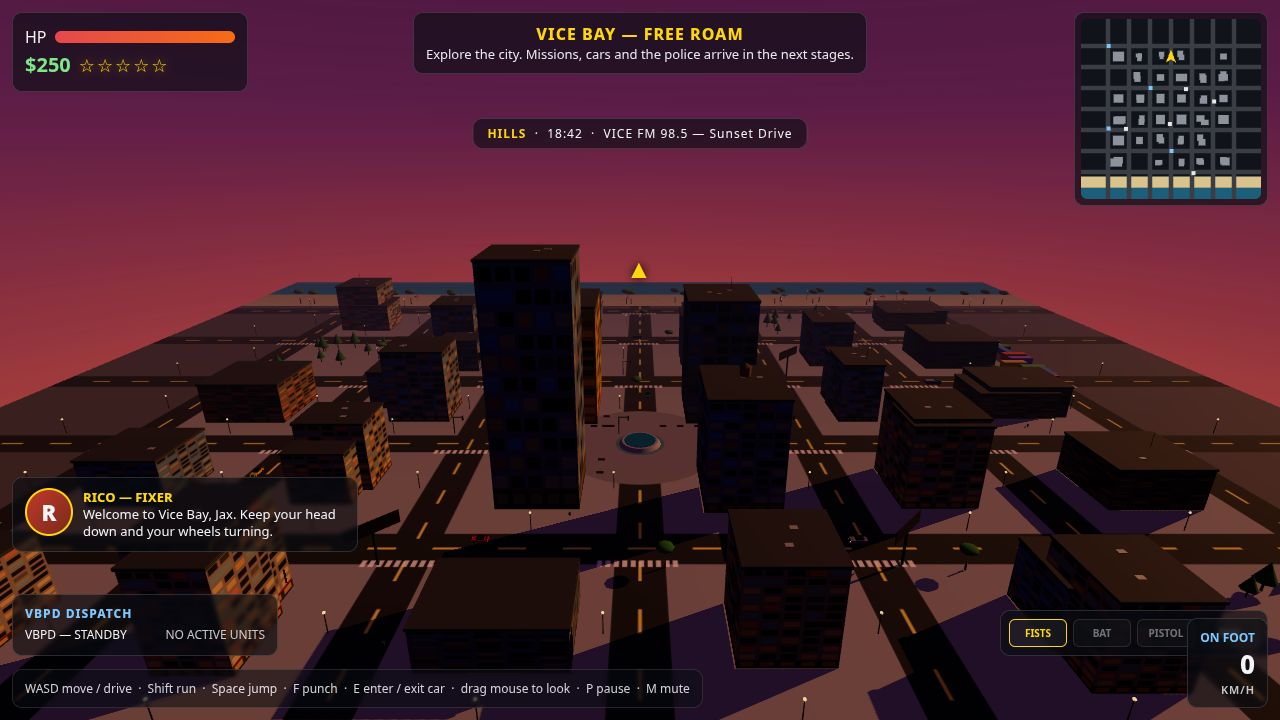
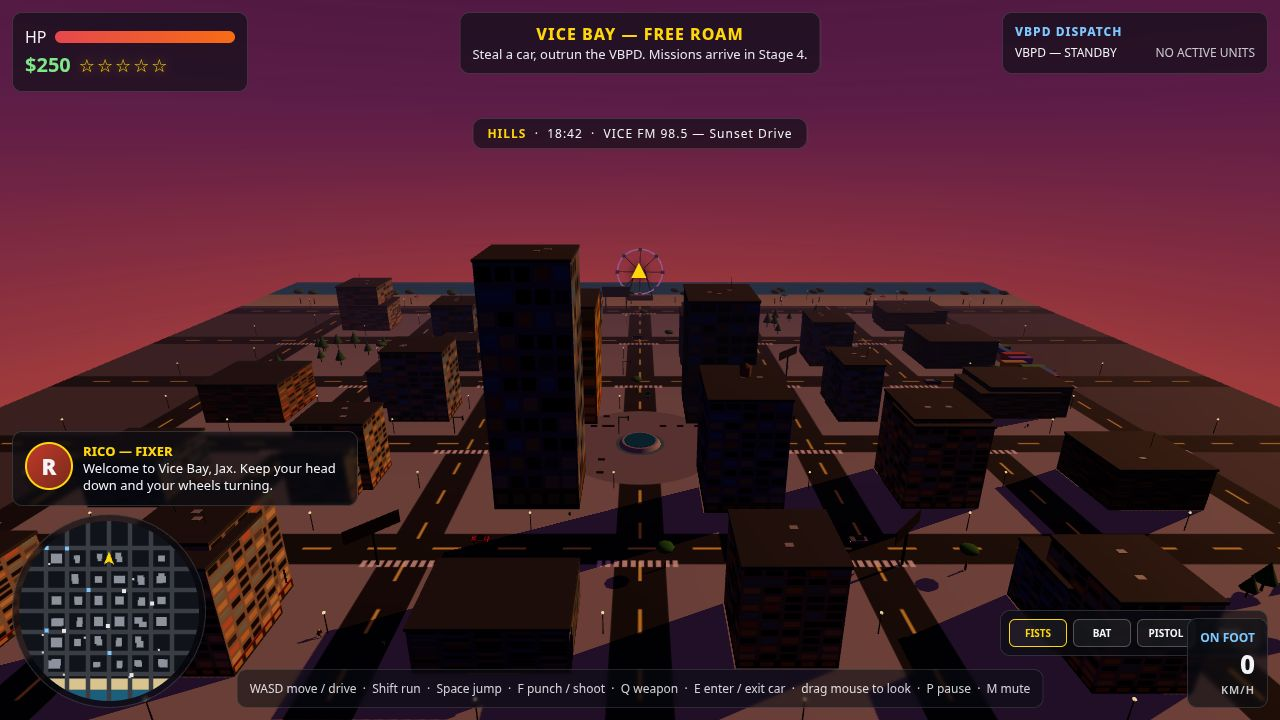
Stage 3: chase staging, dossier cap fix, PROGRESS-3D.md (recorded build)

diff --git a/game/src/main3d.js b/game/src/main3d.js
@@ -344,7 +344,8 @@ function stageShot(name) {
     player.x = 0; player.z = -140; player.heading = Math.PI; player.camYaw = Math.PI; player.camPitch = 0.55;
   } else if (name === 'beach') {
     // Dusk beach: player on the sand facing the sea (south), with an
-    // umbrella and the lifeguard stand in frame.
+    // umbrella and the lifeguard stand in frame and the ferris wheel's neon
+    // rim at the right edge.
     player.x = 24; player.z = 184; player.heading = 0; player.camYaw = 0; player.camPitch = 0.28;
   } else if (name === 'drive') {
     // Chase-cam: the player is IN the hero car, driving east on Coral Row,
@@ -368,12 +369,15 @@ function stageShot(name) {
     player.camYaw = car.heading; player.camPitch = 0.22;
     police.stageChase();
     // Traffic ahead on the road (the traffic update re-places the meshes
-    // from v.x/v.z each frame, so only the state needs staging).
+    // from v.x/v.z each frame, so only the state needs staging). The van is
+    // moved off the chase road so it cannot block the police cars.
     const traffic = vehicles.list.filter((v) => v.isTraffic);
     const taxi = traffic.find((v) => v.type === 'taxi');
-    if (taxi) { taxi.x = -3; taxi.z = 124; taxi.heading = 0; taxi.speed = 11; }
+    if (taxi) { taxi.x = -3; taxi.z = 168; taxi.heading = 0; taxi.speed = 11; }
     const sedan = traffic.find((v) => v.type === 'sedan');
-    if (sedan) { sedan.x = 5; sedan.z = 158; sedan.heading = 0; sedan.speed = 10; }
+    if (sedan) { sedan.x = 4; sedan.z = 182; sedan.heading = 0; sedan.speed = 10; }
+    const van = traffic.find((v) => v.type === 'van');
+    if (van) { van.x = -56; van.z = 120; van.heading = 0; van.speed = 9; }
     // Pedestrians on the sidewalks.
     npcs.place(0, 8, 112, Math.PI);
     npcs.place(1, -8, 130, 0);

diff --git a/game/src/police.js b/game/src/police.js
@@ -415,12 +415,14 @@ export function createPolice(scene, city, vehicles) {
     return heli;
   }
   // Stage the chase: wanted 4, three police cars, the helicopter above-ahead.
+  // The two lead police cars sit in open lanes ahead (right, then left) so
+  // the chase-cam sees them clearly; the third closes in from behind.
   function stageChase() {
     setWanted(4);
     placeCarAt(0, -3, 82, 0, 24);
-    placeCarAt(1, 4, 138, 0, 20);
-    placeCarAt(2, -4, 168, 0, 18);
-    placeHeliAt(0, 26, 150);
+    placeCarAt(1, 5, 132, 0, 20);
+    placeCarAt(2, -5, 148, 0, 18);
+    placeHeliAt(0, 24, 158);
   }
   function reset() {
     for (let i = cars.length - 1; i >= 0; i--) removePoliceCar(cars[i]);

diff --git a/PROGRESS-3D.md b/PROGRESS-3D.md
@@ -96,6 +96,54 @@ Branch `full-3d`; main untouched at 3cd30a68. Built in the recorded session (rec
 
 ### Estimated completion time (revised)
 - Stage 2 DONE (~1 h 10 min of build/test, 22 Nov ~15:05–16:15 WIB — faster than the 3–4 h estimate, because the Stage 1 architecture was reused).
-- Stage 3 (police + helicopter + NPCs + combat): ~4–5 h.
+- Stage 3 (police + helicopter + NPCs + combat): DONE 22 Nov ~17:00 WIB (see Stage 3 section below).
 - Stage 4 (missions + dense HUD live + audio + polish + final shots + check): ~3–4 h.
-- **Total remaining: ~7–9 h of build/test time.** Target: Stage 3 by ~01:00 WIB 23 Nov, Stage 4 by ~12:00 WIB 23 Nov — leaving the afternoon of 23 Nov + 24 Nov for the owner's review, the seal and the submit. Deadline 24 Nov 22:00 WIB.
+- **Total remaining: ~3–4 h of build/test time.** Target: Stage 4 by ~12:00 WIB 23 Nov — leaving the afternoon of 23 Nov + 24 Nov for the owner's review, the seal and the submit. Deadline 24 Nov 22:00 WIB.
+
+## Stage 3 — Police + helicopter + NPCs + combat + damage + neon landmarks (DONE 22 Nov ~17:00 WIB, commit 6f5e92c, pushed to `full-3d`)
+Branch `full-3d`; main untouched at 3cd30a68. Built in the recorded session (recording 01a20223-50e0-7635-8279-965cf036dbf3, still running). Visual reference used as the target: `~/workspace/makefun/gta6-01/reference-vice-bay.jpg` (a mood board only — NOT copied into the game or screenshots/).
+
+### Features completed
+- **Wanted level (0–5 stars):** heat 0–100 (20/star). Crimes: car theft +1, punch/assault +1 (3 s cooldown), pistol +2 (5 s cooldown), speeding >25 m/s within 30 m of a police car +1 (10 s cooldown). Decay: 1.5 heat/s after 8 s with no police within 45 m (~13 s per star). Stars update LIVE in the HUD.
+- **Police cars (2–3):** spawn on roads 60–90 m from the player the moment wanted rises (2 at 1–2 stars, 3 at 3+). Pursuit AI: steer at the player, chase slightly faster (target = player speed + 5, cap 30 m/s vs police max 32). Ram: on a car, bleed its speed ×0.6 + damage it + camera shake; on foot, 12 damage + 3 m knockback + the car reverses. When wanted clears, they stand down and drive away, then despawn. Flashing red/blue light bars (alternating emissive) + a flashing glow sprite above the roof. Black-and-white VBPD livery (black hood/trunk panels, grille, bumpers, glass).
+- **Helicopter (wanted ≥ 3):** white/navy VBPD helicopter (body, tail boom + fin, spinning main + tail rotors, blur disc, skids, searchlight housing). Follows 80 m ahead of the player and above the local rooftops (altitude = max(26, rooftop + 10), lerped) with a gentle sway, so the chase-cam sees it. **Spotlight:** a SpotLight + a visible additive cone + a bright pool circle on the ground, all tracking the player. Climbs away and despawns when wanted falls below 3.
+- **NPCs (8 pedestrians):** varied outfits/proportions (10 shirt colours, 5 pants, 5 skins, scale 0.92–1.08, 2 with hats). Walk the sidewalks (offset 8.5 m from road lines), flee from police chases (12 m) and moving cars (5 m), knocked down by punches/pistol (fall flat, get up, flee). Minimap pale dots.
+- **Combat:** punch (F) with the swing animation + hit at 0.3 of the swing; weapons FISTS / BAT / PISTOL, switched with Q (the HUD slots switch and reflect the equipped weapon; a bat + a pistol mesh appear in the player's right hand). Pistol: hitscan with a tracer line + muzzle flash, 45 m reach. SMG stays locked.
+- **Vehicle damage (real):** crashes −2 condition, car-car hits −1.5, police rams −1. Top speed scales with condition (55% at condition 5). Below 60 a dent patch appears on the hood; below 45 smoke pours from the hood (sprite pool); the HUD CAR row turns red below 45%.
+- **Neon landmarks:** a neon ferris wheel on the beach (0, 198 — pink emissive rim, 8 coloured cabins, rotating slowly), a vertical "VICE BAY" neon sign on the bank tower (south face), an "Ocean Drive" billboard by the beach road (sunset gradient + sun + sea, faces south so the chase-cam reads it). All textures canvas-generated.
+- **HUD layout (reference board):** minimap moved bottom-left and made circular; dispatch board moved top-right; controls hint moved bottom-centre; dialogue sits above the minimap. Money + stars top-left, speed bottom-right (as the reference).
+- **HUD is now live:** stars, dispatch board (named units + PURSUIT/STAND DOWN roles + live distances + AIR 1 HELICOPTER), weapon slots, CAR condition (red when damaged), Rico's warning line when wanted ≥ 3 ("The cops are all over you, Jax. Lose them — fast."). The stale mission line is fixed: "Steal a car, outrun the VBPD. Missions arrive in Stage 4."
+- **Wasted:** health ≤ 0 → respawn at the Hospital, health 100, wanted cleared, "WASTED" banner.
+- **Traffic variety:** 5 traffic cars now (sedan, taxi, van, sedan, truck) on 5 waypoint loops.
+- **Chase-cam lift:** when the helicopter is active the chase-cam pulls back 1 m and tilts up so the helicopter stays in frame.
+- **`?shot=chase` staging:** player in the SUNSET GT driving south on the central road at 22 m/s, wanted 4, two lead police cars in open lanes ahead (right then left), a third closing from behind, the helicopter above-ahead, traffic ahead, pedestrians on the sidewalks, the ferris wheel dead ahead.
+
+### Features TESTED (headless desktop Chromium, SwiftShader; test script `~/workspace/makefun/gta6-01/test-stage3.py`)
+- **43/43 checks PASS, 0 console/page errors, 0 warnings, 0 failed requests, 0 external requests (offline verified).**
+- Title loads; wanted 0 / no police / 8 NPCs at start; traffic 5 cars, 4 types incl. truck; NPCs walk (7/8 moved in 15 s).
+- Car theft → wanted 1; police spawns (2 cars); police closes in (63.6 → 58.3 m in 20 s).
+- setWanted(3) → helicopter appears, spotlight on, 3 police cars; HUD stars ★★★☆☆; dispatch shows UNIT 12/07/23 + AIR 1 with live distances.
+- Punch → NPC down, wanted 3 → 4. Q cycles FISTS → BAT → PISTOL → FISTS (HUD slots follow). Pistol at 10 m → NPC down.
+- Crash into the bank → condition 95 → 79–81. damagePlayerCar(60) → smoke puffs active (3), condition 17–21.
+- Health 0 → wasted respawn at the Hospital (hp 100, wanted 0). Minimap bottom-left + circular (50%). Mission text no longer stale.
+- All 5 staged shots reach `__shotReady` (onfoot, city, beach, chase, drive).
+- **Screenshots (all viewed, all ≤256 KiB):**
+  - `screenshots/1-onfoot.jpg` (80,143 B) — character on a plaza, lit-window buildings, a yellow taxi, circular minimap, new HUD layout.
+  - `screenshots/2-chase.jpg` (111,265 B) — **the hero shot: SUNSET GT centre at 74 KM/H, the helicopter above with its spotlight cone, a white police car ahead-right with a red flashing glow, the ferris wheel, 4 live stars, dispatch with 3 units + AIR 1, NPCs on the sidewalks** — captured from the staged chase.
+  - `screenshots/3-city.jpg` (104,563 B) — aerial dusk city: varied-height buildings, lit windows, roads, plaza fountain, the ferris wheel in the distance.
+  - `screenshots/4-beach.jpg` (87,098 B) — beach: lifeguard stand + umbrella + teal sea, character on the sand, the ferris wheel's neon rim at the right edge.
+  - Temp shots (viewed, NOT in the dossier): combat (NPC visibly falling after a punch, helicopter spotlight pool on the pavement) + damage (smoke) + billboard close-up (the "Ocean Drive" canvas texture renders correctly).
+- `shots.json` updated to the 4 shots (onfoot, chase, city, beach). **The superseded `2-drive.jpg` was removed from the repo** (it lives in git history at ee2c8ab) — the dossier caps at 4 screenshots and the chase shot replaces it.
+- **Kit check: 4 passed, 0 failed, 17 skipped** (transcripts run on the server). **main.ts writes a valid dossier.json** (schema makefun/dossier/v1, cover 0, 4 images, text 145,467 bytes of the 163,840 cap).
+
+### Errors / obstacles found (all fixed)
+1. **Weapon-switch test flaked (3 checks):** the full test used fixed 1 s sleeps after pressing Q, but the game runs at ~1 FPS under SwiftShader, so no frame had consumed the key flag yet. The game code was correct — a focused poll-based re-test passed 8/8 (Q → BAT → PISTOL → FISTS, pistol downs an NPC at 10 m). Fixed the test to poll (up to 60 s) instead of sleeping; the full suite then passed 43/43.
+2. **Dossier failed on `screenshots.max`:** the repo held 5 screenshots (the old 2-drive.jpg plus the new 2-chase.jpg). Fixed by removing the superseded 2-drive.jpg; the dossier then built cleanly.
+3. **Chase shot v1: police cars not identifiable:** the lead police car was hidden behind the traffic van and the helicopter was at the frame's top edge. Fixed by re-staging (lead police cars in open lanes ahead, the van moved off the chase road, the helicopter lower/farther at (0, 24, 158)) — v2 shows the helicopter + a white police car with its red glow clearly.
+4. **Beach shot re-stage made it worse:** facing the ferris wheel from (48, 186) put its support legs dead centre. Reverted to the original (24, 184) facing south — umbrella + lifeguard stand + sea + the wheel's rim at the edge.
+5. **Billboard looked dark in the chase shot:** verified with a close-up — the canvas texture renders correctly (sunset gradient + "OCEAN DRIVE" + "VICE BAY · SUNSET STRIP"); it only reads dark at 80 m in the dusk. No fix needed.
+
+### Features NOT yet done (Stage 4)
+- **Stage 4 — Missions + polish:** 4 story missions (First Wheels, Package Run, Rival Turf, The Big Score) with markers + timers + rewards, money changing on rewards, day/night polish, audio (engine, siren, effects — the audio module already exists, it is not wired in), final 4 screenshots (the chase shot is already the hero), README update, kit check, commit + push.
+- **Not verified in real time (logic reviewed, noted honestly):** wanted decay (~13 s per star in game time) and the escape behaviour — SwiftShader runs at ~0.05× real time, so a decay cycle would take ~4 minutes of wall time per star; the decay code path (heat, unseen distance, grace period) was verified by reading, not by a live wait. The helicopter's rooftop clearance (altitude = rooftop + 10) is computed from the building list and was verified in the chase shot (the helicopter flew above the market-district roofs).
+- **Still a weakness vs Top 10:** no missions yet (Stage 4), the HUD mission panel is a free-roam placeholder, no audio yet, the chase shot has no police car directly behind the player car (the chase-cam looks forward — the reference shows the same), and our 3D is still low-poly/stylised vs the reference board's rendered look. The density gap is now much smaller: helicopter + 3 police + traffic + NPCs + ferris wheel + neon + live dense HUD are all in one frame.
